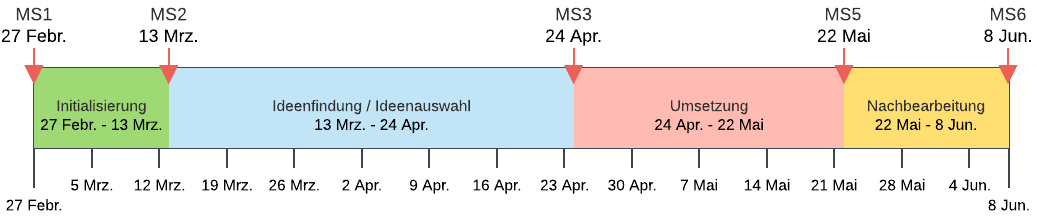
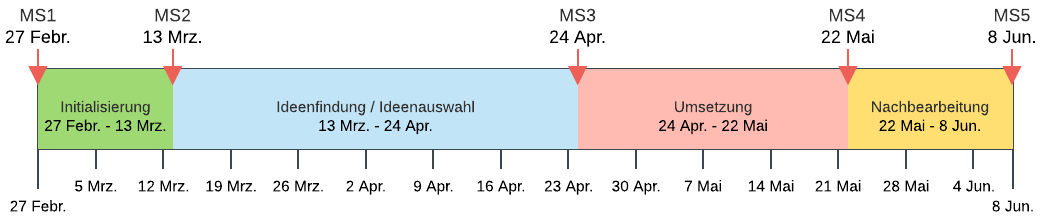
Update milestone planning to fit new project phases. This closes #13.

diff --git a/doc/99-Appendix.tex b/doc/99-Appendix.tex
@@ -26,33 +26,28 @@
 	\end{tabular} \\
 	\hline
 
-	3	& 10. April 	& 
+	3	& 8.  Mai 		& 
 	\begin{tabular}[t]{@{} l @{}}
 		\tabitem Besprechung Ideenfindung \\
 		\tabitem Recherche von Swift und den relevanten Frameworks \\
 		\tabitem Technische Grenzen definiert \\
-		\tabitem verschiedene Problemdefinitionen und mögliche Ideen \\
-	\end{tabular} \\
-	\hline
-
-	4	& 8.  Mai 		& 
-	\begin{tabular}[t]{@{} l @{}}
-		\tabitem Prototypen zu verschiedenen Ideen \\
+		\tabitem Mehrere Problemlösungszyklen durchlaufen \\
+		\tabitem Prototypen zu den Problemlösungszyklen \\
 		\tabitem (funktionale) Anforderungen festgelegt \\
 		\tabitem Planung der Umsetzung, Arbeitspakete \\
 	\end{tabular} \\
 	\hline
 
-	5	& 22. Mai 		& 
+	4	& 22. Mai 		& 
 	\begin{tabular}[t]{@{} l @{}}
 		\tabitem Testatsitzung \\
 		\tabitem Besprechung erreichter Ziele \\
 		\tabitem funktionierende App, die min. alle Muss-Anforderungen erfüllt \\
-		\tabitem Entwurf der Dokumentation \\
+		\tabitem Entwurf der abzugebenden Dokumentation \\
 	\end{tabular} \\
 	\hline
 
-	6	& 8.  Juni 		& 
+	5	& 8.  Juni 		& 
 	\begin{tabular}[t]{@{} l @{}}
 		\tabitem Abgabe Projekt \\
 		\tabitem fertige Dokumentation \\
